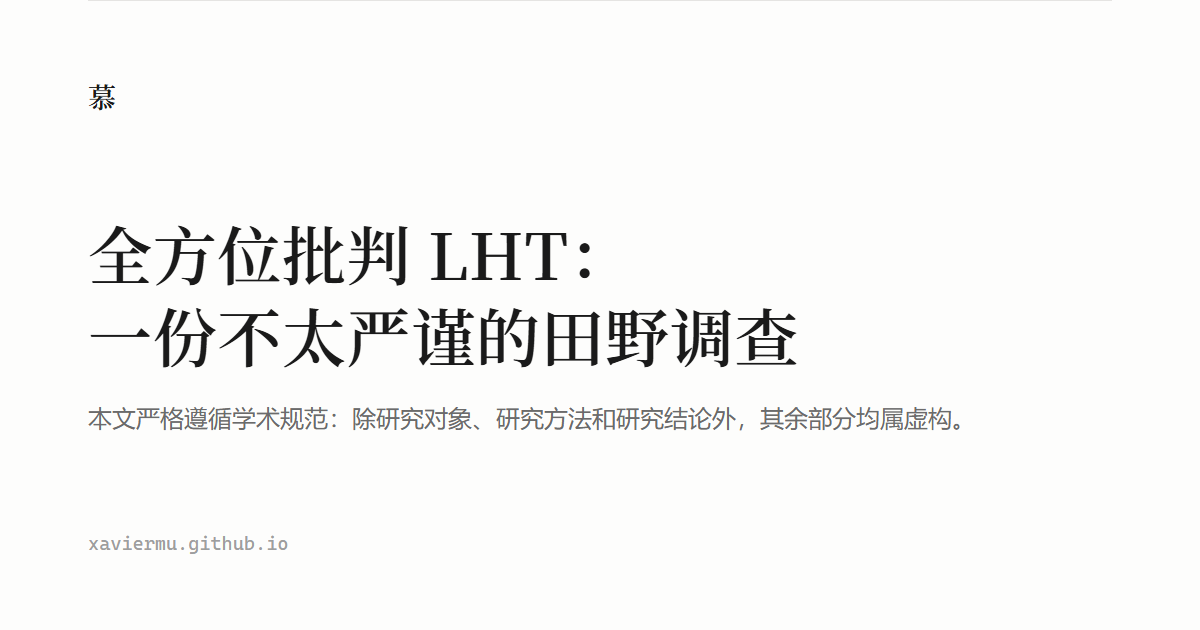
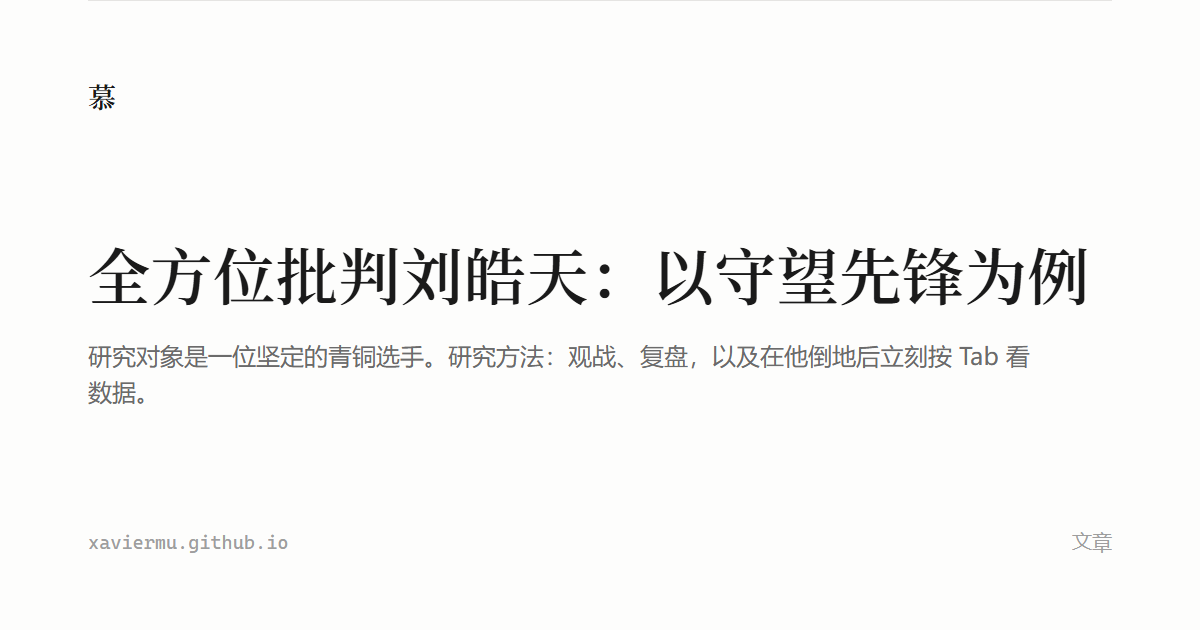
docs: 加入守望先锋主题的戏谑稿；修分享图标题的孤字折行
正文换成守望先锋：段位、英雄池、命中率、大招经济学、数据解读、归因模型六节，配声明。分享图标题改为按 em 估算宽度排字——先尽量单行（自动缩字号），放不下才在冒号等标点处断两行，不再出现「……以守望先锋 / 为例」这种孤字。

Changed region(s): [[0.0617, 0.3619, 0.925, 0.6937], [0.0617, 0.8444, 0.2467, 0.8746], [0.8942, 0.8444, 0.925, 0.8746]]

diff --git a/src/content/blog/lht-critique/index.md b/src/content/blog/lht-critique/index.md
@@ -1,106 +1,128 @@
 ---
-title: "全方位批判 LHT：一份不太严谨的田野调查"
-description: "本文严格遵循学术规范：除研究对象、研究方法和研究结论外，其余部分均属虚构。"
+title: "全方位批判刘皓天：以守望先锋为例"
+description: "研究对象是一位坚定的青铜选手。研究方法：观战、复盘，以及在他倒地后立刻按 Tab 看数据。"
 pubDate: 2026-11-09
-tags: ["随笔", "虚构"]
+updatedDate: 2026-11-09
+tags: ["随笔", "守望先锋"]
 ---
 
 ## 摘要
 
-本文以 LHT 为研究对象，采用参与式观察、蹲点守候、群聊记录爬取等方法，对其日常行为
-进行了为期数年的追踪。研究发现，LHT 在时间感知、决策效率、语言表达与执行力四个维度上
-表现出稳定的、可重复的异常模式。为便于讨论，本文将其统称为「LHT 综合征」。
+本文以刘皓天为研究对象，采用观战、复盘、组队语音回放等方法，对其在《守望先锋》中的
+表现进行了为期数个赛季的追踪。研究发现，该样本段位长期稳定在青铜至白银之间，
+且呈现出「数据不差、比赛全输」的稳定特征。本文试图解释这一现象。
 
-**关键词**：LHT；拖延；选择困难；「马上到」；装备与行动的相关性
+**关键词**：刘皓天；青铜；源氏；随缘箭；「我需要治疗」
 
 ## 一、研究对象
 
-LHT，男，年龄不详（自称永远十八），职业不便透露（他自己也说不清）。首次观测于
-若干年前的一次聚会上，当时他迟到了四十分钟，进门第一句话是「我没迟到吧」。
+刘皓天，男，守望先锋玩家，主玩源氏。生涯最高段位青铜，且据其本人陈述，
+「那次是队友带我上去的，不算」。
 
-此后至今，该行为模式未见明显变化。
+他有一套完整的配置理论：灵敏度 1600×8，「这样转视角快」；准星用点，「精细」；
+鼠标垫是加大的，「方便大幅拉枪」。这套配置在任何一次实测中都未能转化为有效命中。
 
 ## 二、主要症候
 
-### （一）时间感知系统故障
+### （一）英雄池的宽度
 
-LHT 的时间单位与常人不同。在他的坐标系里，「马上」的取值范围是 20 分钟到 3 小时，
-「快到了」表示尚未出门，「在路上」表示正在找钥匙。
+刘皓天的英雄池是一个英雄：源氏。排位进图第一件事是秒选，慢一秒就要在语音里
+喊「让我玩」。
 
-值得注意的是，他对别人的迟到极为敏感。「你怎么才来」是他最常说的一句话，
-而说这句话时，他通常已经让人等了半小时。
+如果被别人抢了，他会选半藏，理由是「都是弹道英雄，通用」。这句话的正确含义是：
+他只有这两个英雄玩得一样差。
 
-### （二）决策回路过长
+当他连续三把打不出伤害时，会主动换英雄——换成另一个更不擅长的。研究记录到的
+换人序列包括：源氏 → 半藏 → 黑百合 → 源氏。其中黑百合一局开镜六次，命中零次，
+被队友在语音里问「你是不是在挂机」。
 
-一次外卖点单平均耗时 47 分钟。期间他会依次否掉麻辣烫（太辣）、黄焖鸡（昨天吃过）、
-沙拉（不顶饱）、汉堡（不健康），最终下单黄焖鸡。
+### （二）命中率
 
-研究者曾尝试干预，方式是直接替他选。他的回应是「也行」，然后花二十分钟论证
-为什么这个选择不太行。
+单局平均命中率 11%。这个数字的达成方式值得单独说明：主要靠对着人群按住左键，
+以及在复活点门口对着空气练手感。
 
-### （三）语言的经济性
+需要澄清一个常见误解：命中率低不等于打不中。他确实打中过。问题在于打中的
+基本是对面的坦克，而坦克身上挂着两个奶。
 
-LHT 的回复遵循极简主义。「哈哈哈哈」可以表示真的好笑，也可以表示「我没看」；
-「好」可以表示同意，也可以表示「我看到了，但我不打算同意」。
+至于半藏，他的箭法在车队内部有个专有名词——随缘箭。意思是箭是真的射出去了，
+中不中看缘分，与他无关。
 
-唯一的例外是聊到他感兴趣的领域。此时他会连发十一条六十秒语音，并在最后一条补一句
-「反正你也不懂」。
+### （三）大招经济学
 
-### （四）执行力与装备的相关性
+刘皓天的大招使用遵循一条固定规律：充能满的第一时间立刻释放，无论场上形势。
 
-LHT 拥有健身卡一张（未激活）、跑鞋一双（九成新）、瑜伽垫一个（未拆封）、
-Kindle 一台（用于压泡面）。
+因此他的「龙神の剣を喰らえ」有相当比例是朝着空地放的。研究者统计了 37 次大招：
+其中 9 次命中零人，14 次命中一人（为对方坦克），另有 3 次是在自身血量 20% 时释放，
+随后被对面辅助一枪点死。
 
-经测算，装备购置行为与实际行动之间的相关系数为 −0.83，即装备越齐全，行动越不频繁。
-该结论在多次重复观测中保持稳定。
+他对此的解释是「我怕被控」。这句话的真实含义是：他宁愿把大招浪费在空地上，
+也不愿承担被控的风险——尽管空放同样没有收益。
 
-### （五）记忆的选择性
+### （四）数据解读能力
 
-LHT 能准确背出某款游戏里两百多件装备的属性数值、掉率和适用流派，却连续三年记错
-同住室友的籍贯。
+每局结束，刘皓天会第一时间按 Tab，并指出自己的伤害量排名。
 
-他对此的解释是「那不重要」。至于什么重要，他没有说。
+「我伤害金牌。」
+
+这句话在字面上是真的。问题在于，守望先锋的伤害统计不区分有效伤害与无效伤害。
+他的伤害构成中约七成来自对坦克的持续输出，而对方坦克的血量在他输出期间
+始终保持在 60% 以上。
+
+换句话说，他打了很多，但什么都没打死。
+
+### （五）归因模型
+
+刘皓天拥有一套完备的失败归因系统。按使用频率排序：
+
+1. 队友不会玩（62%）
+2. 对面有挂（21%）
+3. 网络卡（12%）
+4. 这个版本源氏太弱（4%）
+5. 我今天手感不好（1%）
+
+第五项是唯一一次自我归因，出现在输掉第十把之后，且紧接着补充「不过我前九把
+是真的被队友坑了」。
 
 ## 三、成因分析
 
-目前存在三种假说。
+**其一，硬件说。** 该样本的显示器为 60Hz，鼠标回报率 500Hz，键盘是一把青轴。
+青轴在团战中的噪音足以让队友误判为有人在砸键盘，实际上那只是他在走位。
 
-**其一，硬件说。** LHT 的出厂配置中，时间模块与执行模块之间存在一处未修复的竞态条件。
-低负载时表现为轻微延迟，高并发时（比如同时被三个人催）会直接死锁。
+**其二，环境说。** 长期与固定的五人车队同玩，而车队中另外四人的段位同样在青铜。
+该群体内部形成了一套自洽的评价体系：在这套体系里，刘皓天的源氏被称为「有灵性」。
 
-**其二，环境说。** 长期处于「反正也没人真生气」的环境中，系统逐渐学会了用拖延换取关注，
-并形成了正反馈循环。此说法的证据是：他每次迟到后的道歉都极为诚恳，且从不改进。
+**其三，哲学说。** 刘皓天或许真的相信守望先锋是一个「快乐游戏」。此说法的反证是：
+他在输掉比赛后会静音语音、退出队伍，并在第二天早上发一条「昨天不好意思，
+我状态不好」。
 
-**其三，哲学说。** LHT 或许真的相信，一件事只要还没开始，就还剩下无限种可能；
-一旦开始，就只剩下一种。拖延在此意义上是一种对可能性的保护。
-
-第三种说法由他本人提出。研究者认为这是狡辩，但不排除其具有一定的解释力。
+第三种说法被他本人反复引用。研究者认为这是狡辩，但承认它具有相当的情绪调节价值。
 
 ## 四、结论与建议
 
-综上，LHT 是一个在时间、决策、表达、执行四个维度上均表现出显著偏差的样本。
+综上，刘皓天是一位在英雄池、命中率、大招决策、数据解读与归因五个维度上均表现出
+稳定偏差的玩家。其段位长期停留在青铜，与上述指标高度一致。
 
-但需指出，该样本在另外一些维度上是可靠的：借出去的钱会还，答应过的事（在足够多次
-催促之后）会做，喝多了会主动承认自己是傻逼。
+但需指出，该样本在另外一些方面是可靠的：他从不退赛，从不把锅甩给具体某个人
+（只甩给「队友」这个集合），并且在每次被对面源氏单杀后，都会认真说一句
+「这个人的刀法确实可以」。
 
-据此，本文的建议是：继续观测，暂不干预。毕竟身边若全是准时、果断、言出必行的人，
-日子会无聊很多。
+据此，本文的建议是：继续组队，暂不纠正。毕竟一个从不缺席、输了也不真生气、
+还能稳定提供笑料的队友，比一个大师段位的陌生人珍贵得多。
 
 ## 参考文献
 
-[1] LHT. 我真的马上到[Z]. 微信群, 2023.
+[1] 刘皓天. 我需要治疗[Z]. 队伍语音, 2024.
 
-[2] LHT. 再等我五分钟[Z]. 微信群, 2024.
+[2] 刘皓天. 这波我没被抓，我是在拉扯[Z]. 队伍语音, 2024.
 
-[3] LHT. 这次真的出门了[Z]. 微信群, 2024.
+[3] 刘皓天. 我 ping 了你们没看见吗[Z]. 队伍语音, 2024.
 
-[4] 佚名. 关于 LHT 是否真的在路上的追踪调查[R]. 未刊稿.
+[4] 刘皓天. 这把稳了[Z]. 队伍语音, 2024.
 
-[5] LHT. 我没有拖延，我只是在思考[Z]. 口头陈述, 年份不详.
+[5] 佚名. 关于刘皓天是否为「有灵性」选手的争议[R]. 车队内部讨论, 未刊稿.
 
 ## 声明
 
-本文为虚构创作。除「LHT」这一缩写外，文中所有症候、数据、引文均为编造，
-不对应任何真实人物或事件。
+本文为玩笑之作。文中段位、数据、对局记录与引文均为编造，不对应任何真实战绩。
 
-若你恰好认识一位叫 LHT 的人，那纯属巧合；若你就是 LHT 本人，那……你先把外卖点了行吗。
+若当事人有异议，研究者愿意在下一局里把输出位让给他——反正结果一样。
